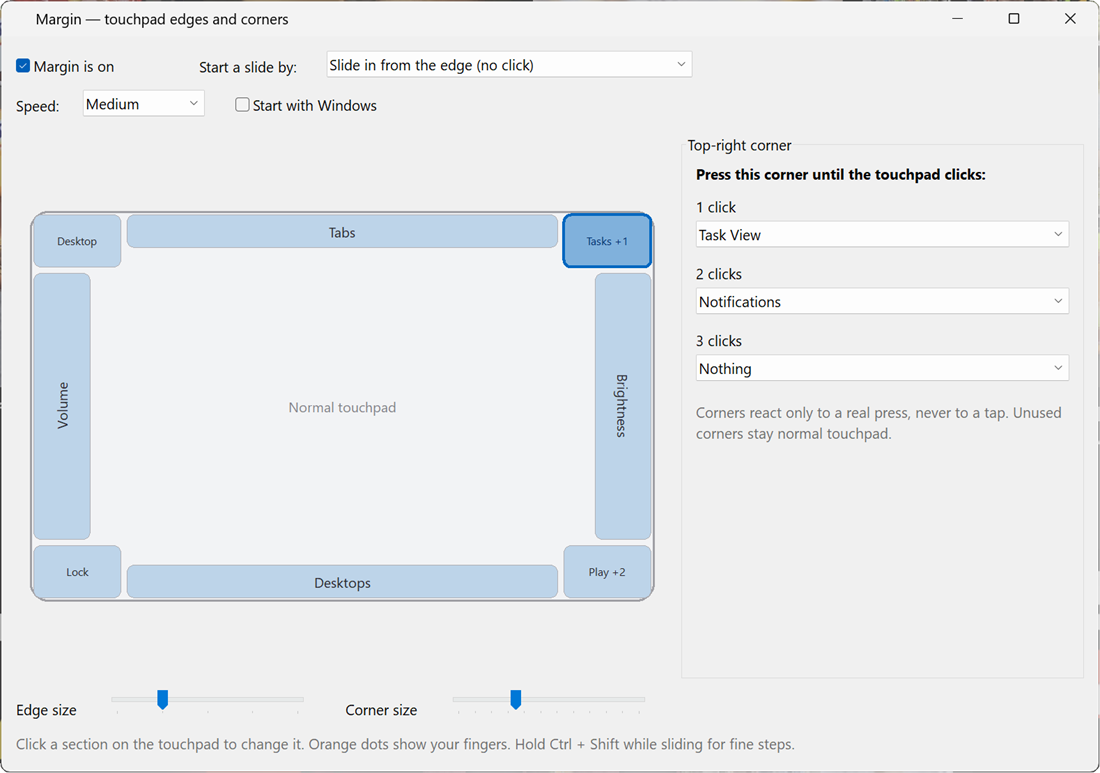
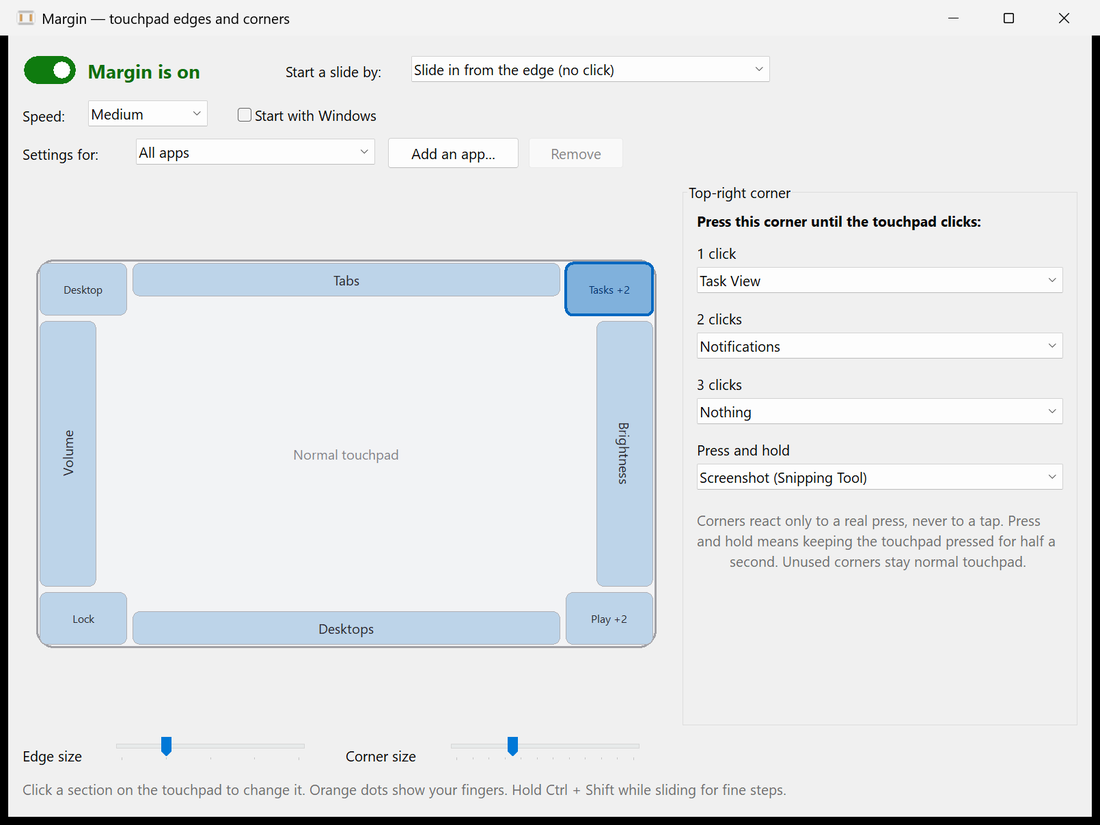
Update the screenshots for 0.5.1 (#14)
New screenshots from the released 0.5.1: the on/off switch and Settings for row, a corner with press and hold, custom keys, the Linux settings page, and a new per-app screenshot shown in the README.

diff --git a/README.md b/README.md
@@ -17,7 +17,7 @@
 </p>
 
 <p align="center">
-  <img src="docs/images/settings.png" alt="The Margin settings window: a map of the touchpad with every edge and corner assigned" width="760">
+  <img src="docs/images/settings.png" alt="The Margin settings window: the on/off switch, a map of the touchpad with every edge and corner assigned, and the editor for the top edge" width="760">
 </p>
 
 Most laptop touchpads only use their middle for gestures. Margin uses the unused strip around the outside:
@@ -91,7 +91,7 @@ cargo build --release     # target/release/margin  (margin.exe on Windows)
 <table>
   <tr>
     <td width="50%"><img src="docs/images/custom-keys.png" alt="Custom keys editor with Alt+Tab recorded for the top edge"><br><sub><b>Custom keys.</b> Record a shortcut for each slide direction, or pick a preset.</sub></td>
-    <td width="50%"><img src="docs/images/corner-actions.png" alt="Corner editor with different actions for one, two and three presses"><br><sub><b>Corners.</b> One, two or three presses each run a different action.</sub></td>
+    <td width="50%"><img src="docs/images/corner-actions.png" alt="Corner editor with different actions for one, two and three presses and for press and hold"><br><sub><b>Corners.</b> One, two or three presses, or a press and hold, each run a different action.</sub></td>
   </tr>
 </table>
 
@@ -169,6 +169,10 @@ Your system keeps a few combinations to itself (Alt+Tab, anything with the Windo
 ## Per-app settings
 
 On Windows, any edge or corner can do something else while a particular app is the window in front. In the settings window, choose **Add an app…** next to **Settings for**, and pick the app's program (for example `vlc.exe`). With that app chosen in the list, click a section on the map and tick **Different in vlc** to give it its own action. Sections with their own action for the chosen app have an orange outline; the rest follow the settings for all apps.
+
+<p align="center">
+  <img src="docs/images/per-app.png" alt="Settings for vlc: the bottom edge is set to Seek and ticked Different in vlc; it and the bottom-right corner have orange outlines" width="760">
+</p>
 
 Margin checks which app is in front when a slide or press starts, and a slide keeps those settings until you lift your finger, even when it switches to another app (as Alt+Tab does). On Linux, per-app settings in the file are kept but not used, because Wayland has no common way to tell which app is in front.
 
